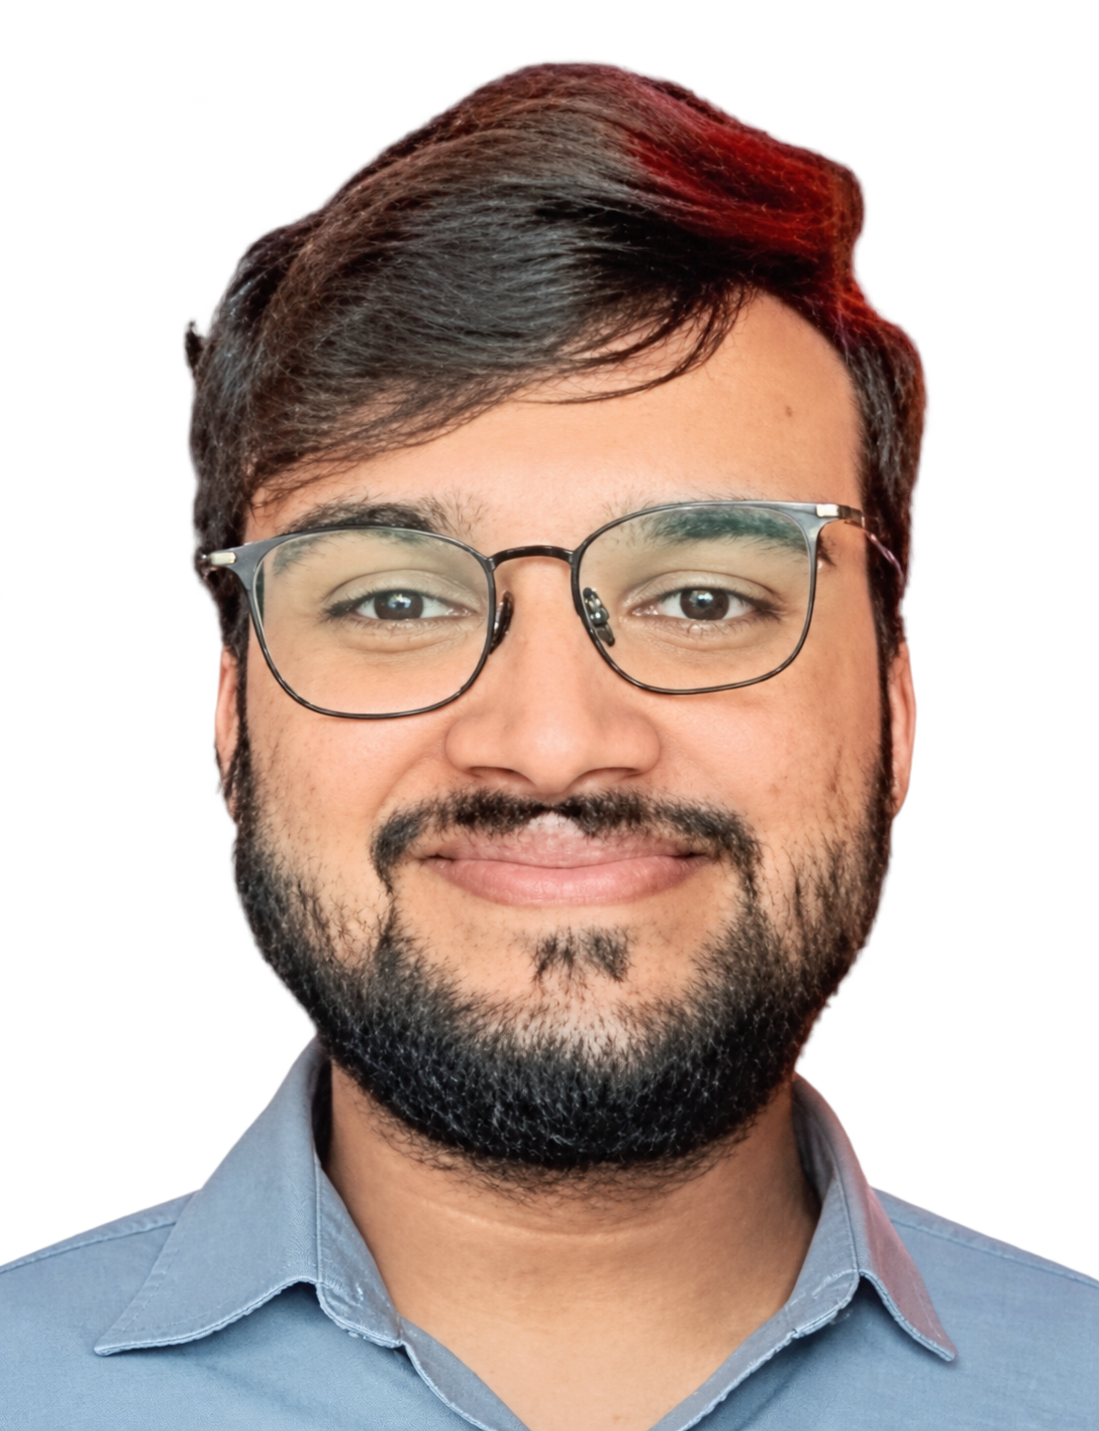
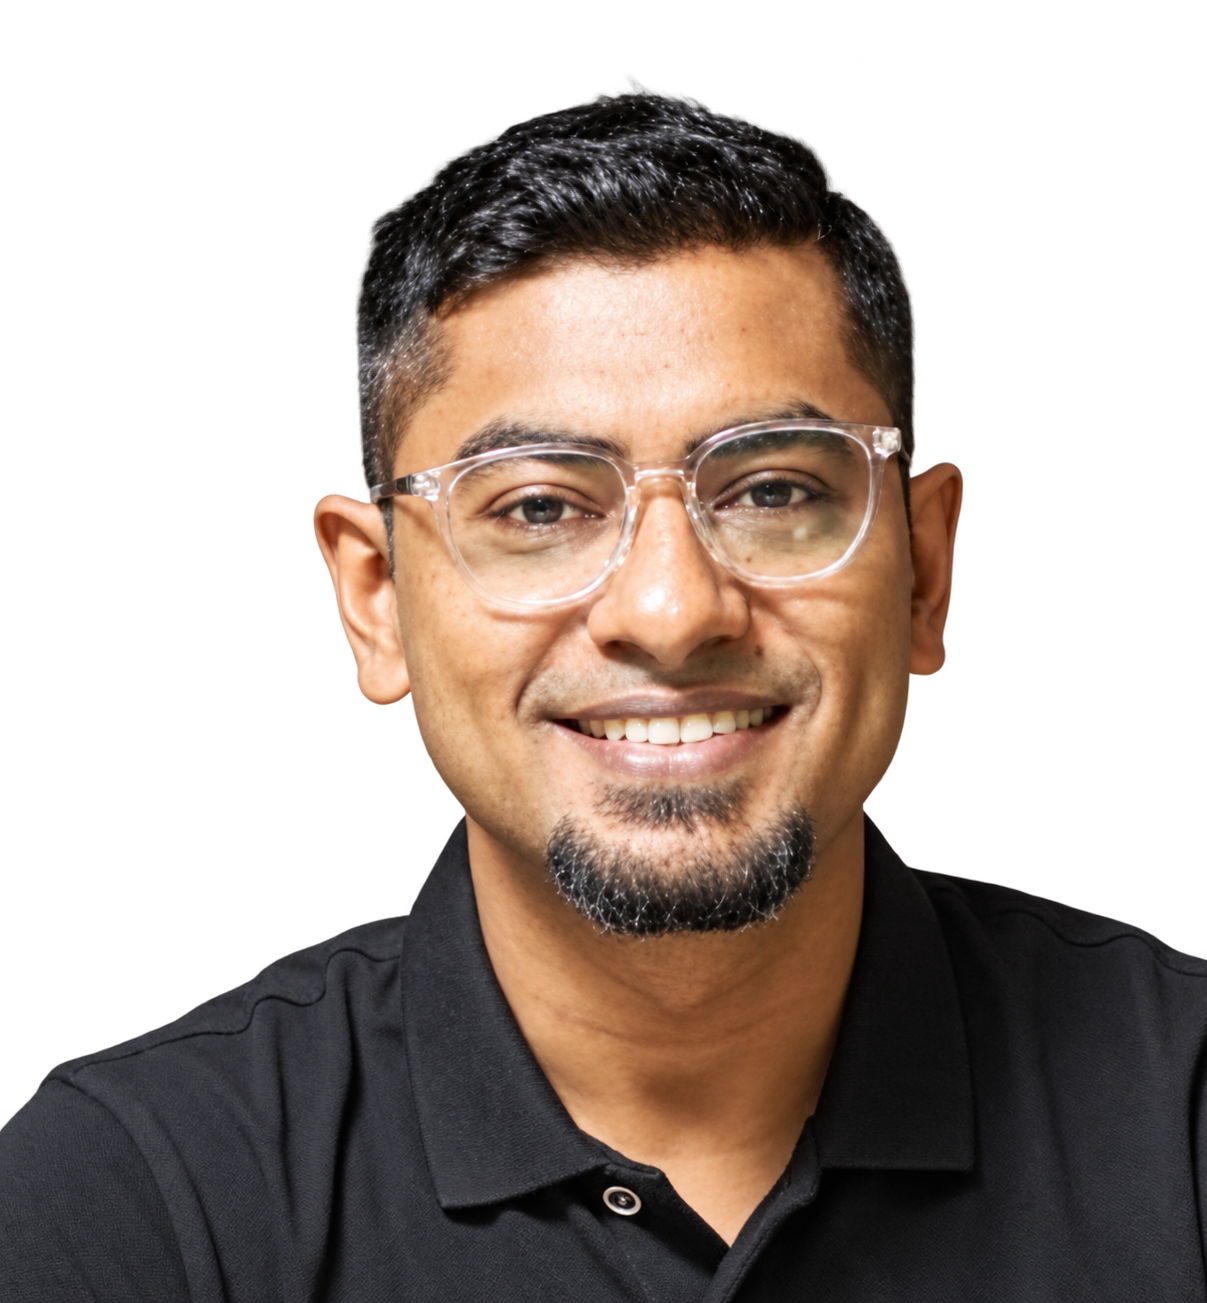
Correct faculty portraits, Siddhartha cutout and Snitch wordmark

diff --git a/index.html b/index.html
@@ -151,7 +151,7 @@
 <p class="faculty-name">Gaurav Garg</p>
 <p class="faculty-role">Engineering Manager, AWS</p>
 </div></article>
-<article class="faculty-card faculty-card-updated"><img class="faculty-logo" src="assets/artwork/faculty-offbeat-logo.svg" alt="OFF/BEAT"><img class="faculty-portrait" src="assets/artwork/faculty-siddhartha-agarwal.svg" alt="Siddhartha Agarwal"><div class="faculty-card-copy">
+<article class="faculty-card faculty-card-updated"><img class="faculty-logo" src="assets/artwork/faculty-offbeat-logo.svg" alt="OFF/BEAT"><img class="faculty-portrait" src="assets/images/faculty/siddhartha-agarwal-v2.png" alt="Siddhartha Agarwal"><div class="faculty-card-copy">
 <p class="faculty-name">Siddhartha Agarwal</p>
 <p class="faculty-role">Founding Team, OFF/BEAT</p>
 </div></article>
@@ -159,7 +159,7 @@
 <p class="faculty-name">Aryan Lohia</p>
 <p class="faculty-role">Co-Founder, AI Hive</p>
 </div></article>
-<article class="faculty-card faculty-card-updated"><img class="faculty-logo" src="assets/artwork/faculty-snitch-logo.svg" alt="Snitch"><img class="faculty-portrait" src="assets/images/faculty/pratik-agarwal.png" alt="Pratik Agarwal"><div class="faculty-card-copy">
+<article class="faculty-card faculty-card-updated"><img class="faculty-logo faculty-logo-wide" src="assets/artwork/faculty-snitch-logo.svg" alt="Snitch"><img class="faculty-portrait" src="assets/images/faculty/pratik-agarwal.png" alt="Pratik Agarwal"><div class="faculty-card-copy">
 <p class="faculty-name">Pratik Agarwal</p>
 <p class="faculty-role">CEO Office, Snitch</p>
 </div></article>
